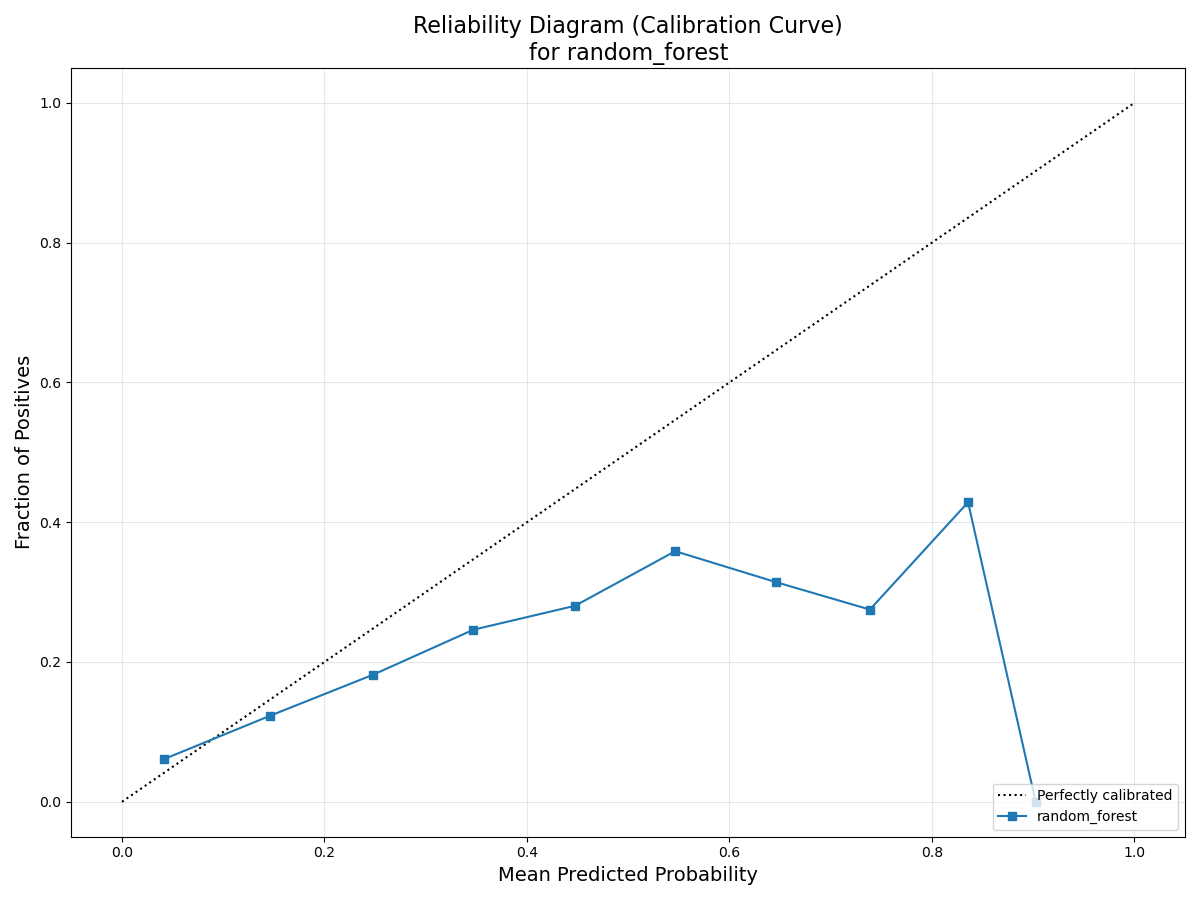
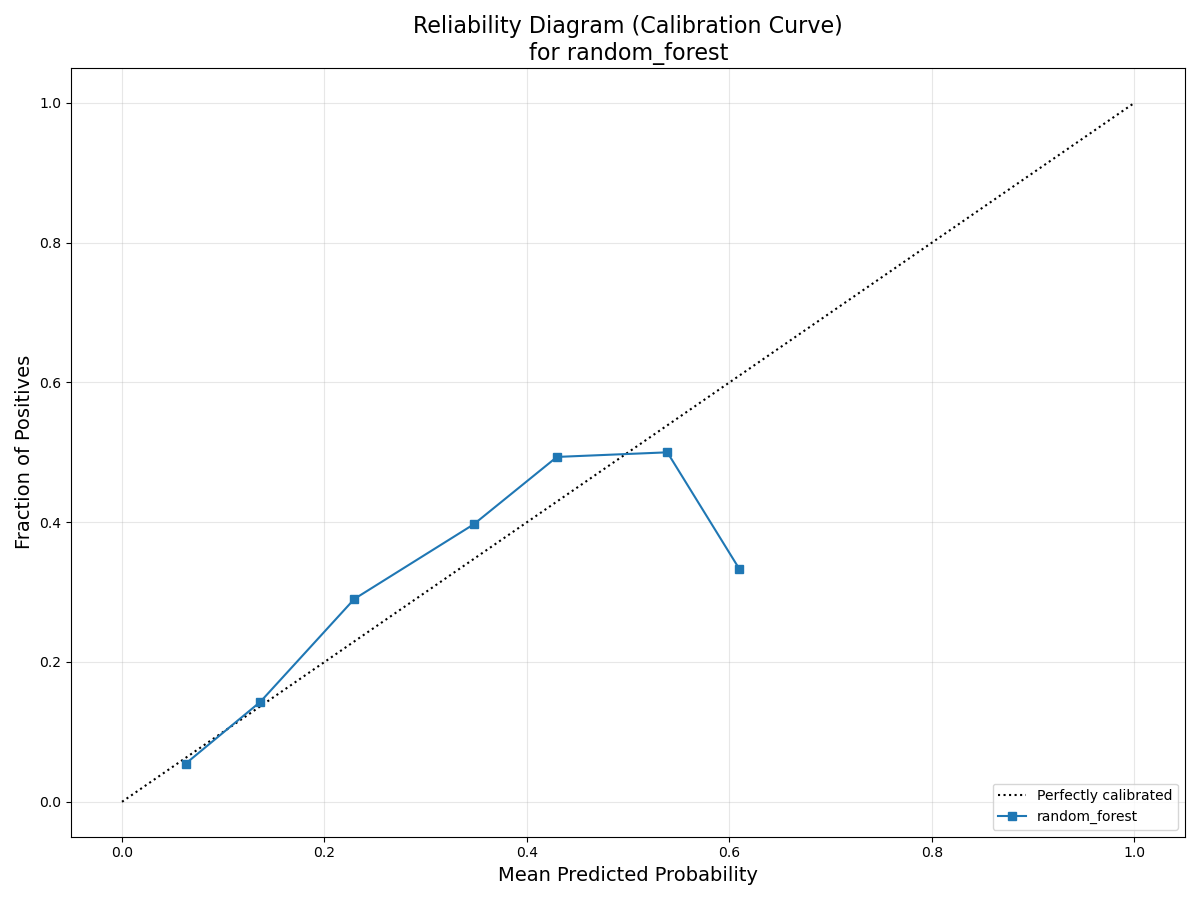
feat: add SVM, auc score and grid search

diff --git a/advanced_models/svm.py b/advanced_models/svm.py
@@ -1,0 +1,63 @@
+from sklearn.svm import SVC
+from sklearn.pipeline import Pipeline
+import wandb
+
+from model_trainer import train_and_val_model
+from ift6758.features import get_preprocessing_pipeline
+from ift6758.visualizations import four_graphs
+
+def train_and_test_svm(C = 1.0, kernel = "rbf", use_wandb=True, close_wandb=True):
+    """
+    Train and test a SVM model
+
+    Returns:
+        model: The trained model
+        y_pred: The predicted values
+        y_proba: The predicted probabilities
+        y_val: The true values
+    """
+    # Arguments for the model
+    model_params = {
+        "C": C,
+        "kernel": kernel,
+        "class_weight": None,
+        "max_iter": 2000,
+        "random_state": 42,
+        "probability": True
+    }
+
+    # Create the model
+    model = Pipeline([
+        ('preprocessor', get_preprocessing_pipeline()),
+        ('classifier', SVC(**model_params))
+    ])
+
+    return train_and_val_model(
+        model=model,
+        model_slug="svm",
+        model_name="SVM",
+        model_params=model_params,
+        use_wandb=use_wandb,
+        close_wandb=close_wandb
+    )
+
+#-----------------------------------------------------
+#-----------------------------------------------------
+if __name__ == "__main__":
+    use_wandb = True
+
+    C_values = [0.1, 0.2, 0.5, 1.0, 2.0, 5.0, 10.0]
+    kernel_values = ["linear", "poly", "rbf", "sigmoid"]
+
+    for c in C_values:
+        for k in kernel_values:
+            model, y_pred, y_proba, y_val = train_and_test_svm(C=c, kernel=k, use_wandb=use_wandb, close_wandb=False)
+            four_graphs(y_proba[:, 1], y_val, f"svm", save_wandb=use_wandb)
+            if use_wandb:
+                wandb.finish()
+
+    # model, y_pred, y_proba, y_val = train_and_test_svm(use_wandb=use_wandb, close_wandb=False)
+    # four_graphs(y_proba[:, 1], y_val, "svm", save_wandb=use_wandb)
+    #
+    # if use_wandb:
+    #     wandb.finish()

diff --git a/advanced_models/random_forest.py b/advanced_models/random_forest.py
@@ -8,7 +8,7 @@ from ift6758.visualizations import four_graphs
 
 from os import cpu_count
 
-def train_and_test_random_forest(use_wandb=True, close_wandb=True):
+def train_and_test_random_forest(n_estimators = 300, max_depth = 12, use_wandb=True, close_wandb=True):
     """
     Train and test a random forest model
 
@@ -20,9 +20,11 @@ def train_and_test_random_forest(use_wandb=True, close_wandb=True):
     """
     # Arguments for the model
     model_params = {
-        "n_estimators": 100,
+        "n_estimators": n_estimators,
+        "max_depth": max_depth,
+        "class_weight": None,
         "random_state": 42,
-        "n_jobs": max(1, cpu_count() - 1)
+        "n_jobs": max(1, cpu_count() - 2)
     }
 
     # Create the model
@@ -45,8 +47,18 @@ def train_and_test_random_forest(use_wandb=True, close_wandb=True):
 if __name__ == "__main__":
     use_wandb = True
 
-    model, y_pred, y_proba, y_val = train_and_test_random_forest(use_wandb=use_wandb, close_wandb=False)
-    four_graphs(y_proba[:, 1], y_val, "random_forest", save_wandb=use_wandb)
+    n_estimators = [100, 200, 300, 400, 500, 600, 700, 800, 900, 1000]
+    max_depth = [8, 10, 12, 14, 16, 18, 20]
 
-    if use_wandb:
-        wandb.finish()
+    for n in n_estimators:
+        for d in max_depth:
+            model, y_pred, y_proba, y_val = train_and_test_random_forest(n_estimators=n, max_depth=d, use_wandb=use_wandb, close_wandb=False)
+            four_graphs(y_proba[:, 1], y_val, f"random_forest", save_wandb=use_wandb)
+            if use_wandb:
+                wandb.finish()
+
+    # model, y_pred, y_proba, y_val = train_and_test_random_forest(use_wandb=use_wandb, close_wandb=False)
+    # four_graphs(y_proba[:, 1], y_val, "random_forest", save_wandb=use_wandb)
+
+    # if use_wandb:
+    #     wandb.finish()

diff --git a/advanced_models/model_trainer.py b/advanced_models/model_trainer.py
@@ -1,7 +1,7 @@
 import os
 
 import numpy as np
-from sklearn.metrics import accuracy_score
+from sklearn.metrics import accuracy_score, roc_auc_score
 import wandb
 import joblib
 
@@ -43,7 +43,11 @@ def train_and_val_model(model, model_params, model_slug: str, model_name: str, u
     # Evaluate the model
     y_proba = model.predict_proba(X_val)
     y_pred = np.argmax(y_proba, axis=1)
-    accuracy = accuracy_score(y_pred, y_val)
+    accuracy = accuracy_score(y_val, y_pred)
+    auc_score = roc_auc_score(y_val, y_proba[:, 1])
+
+    print(f"Accuracy: {accuracy}")
+    print(f"AUC: {auc_score}")
 
     if use_wandb:
         # Send the model to wandb
@@ -53,6 +57,7 @@ def train_and_val_model(model, model_params, model_slug: str, model_name: str, u
         # Log the model and accuracy
         wandb.log_artifact(artifact)
         wandb.log({"accuracy": accuracy})
+        wandb.log({"auc": auc_score})
 
         # Finish the run
         if close_wandb:

diff --git a/ift6758/features/preprocessing_pipeline.py b/ift6758/features/preprocessing_pipeline.py
@@ -111,8 +111,8 @@ def get_preprocessing_pipeline(skip_drop=True) -> Pipeline:
         ('imputer', SimpleImputer(strategy='mean')),
 
         # Normalize features
-        ('norm', Normalizer()),
-        # ('scaler', StandardScaler())
+        # ('norm', Normalizer()),
+        ('scaler', StandardScaler())
     ])
 
     categorical_transformer = Pipeline([
